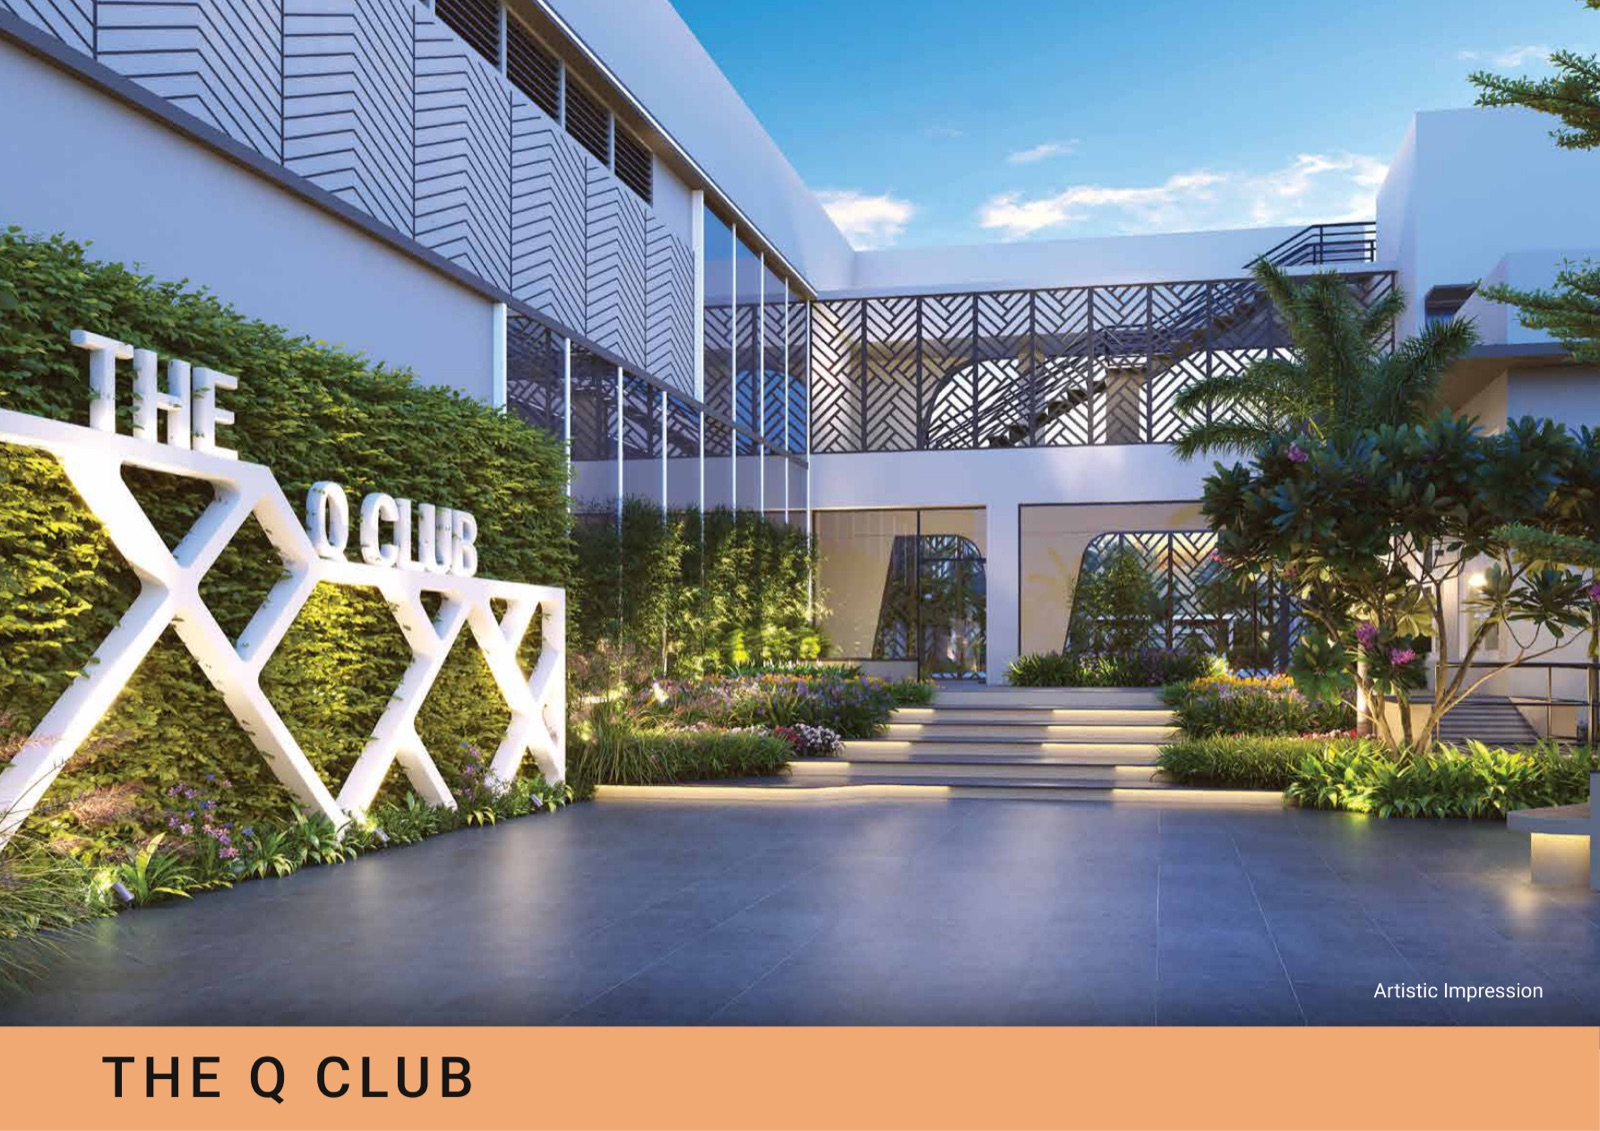
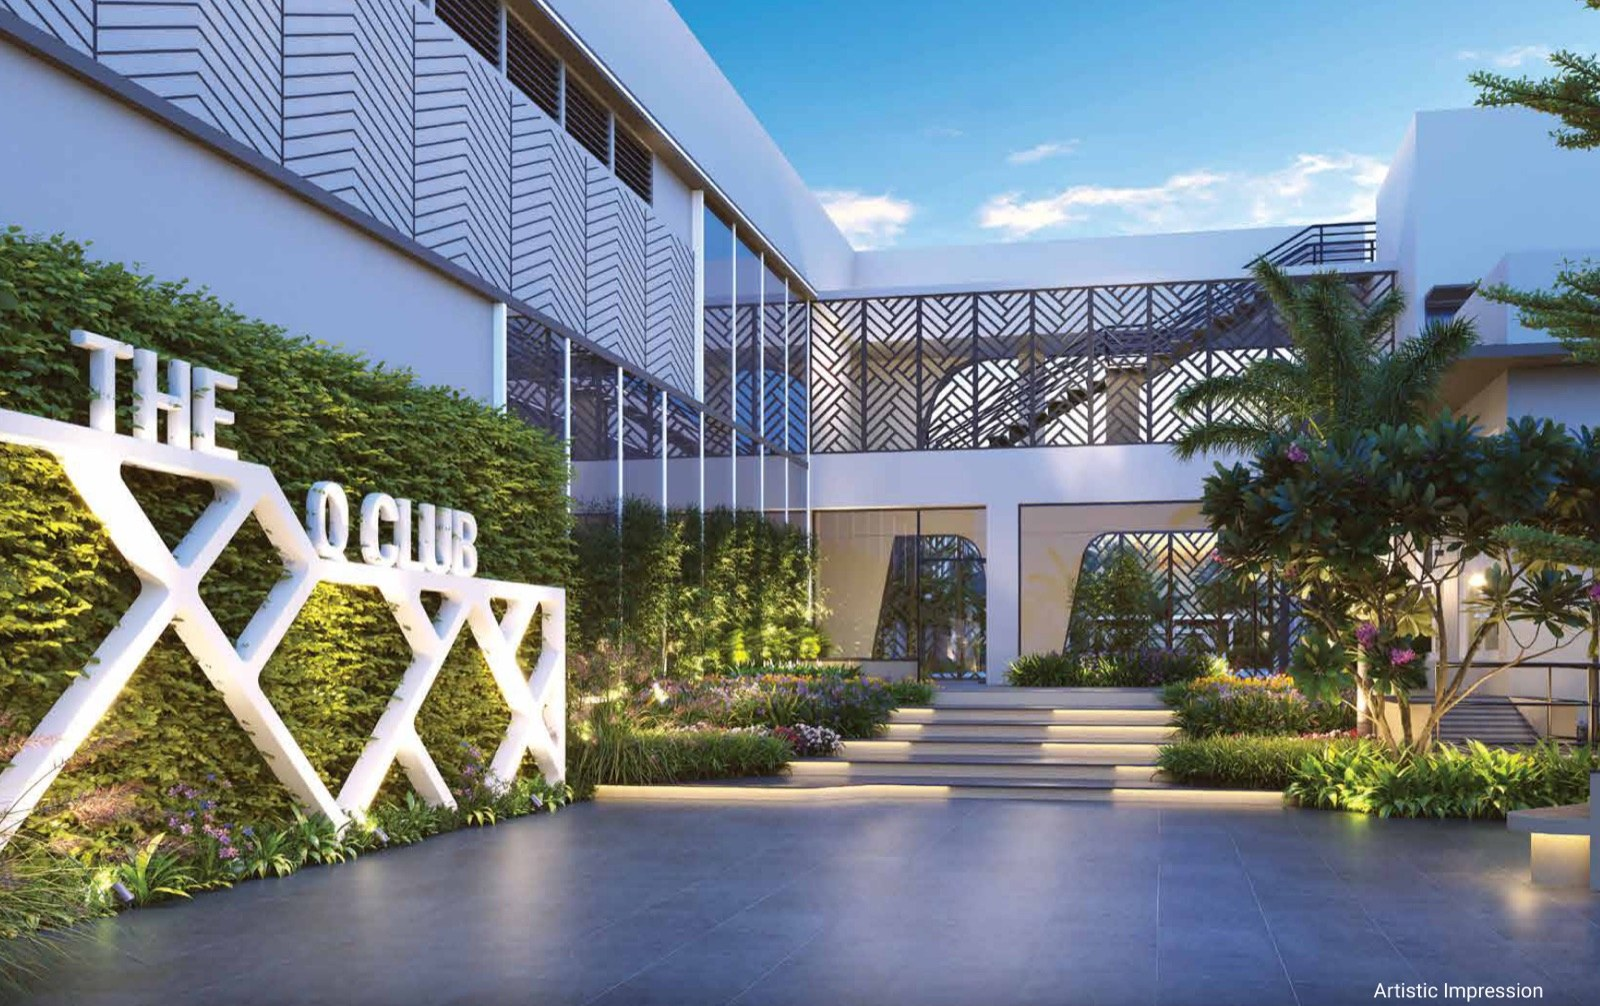
Crop caption bands from brochure images; carry project into contact form
The Qrious and Echoes renders had a developer-added caption
band baked into each image (a colored bottom bar or a white
text block below the photo). Cropped those off at the true
photo/caption boundary so the gallery's object-cover crop no
longer cuts label text mid-word — the same source image now
looks clean both in the grid and full-size in the lightbox.

Request Price / Schedule Site Visit on a project page now link to
/contact?project=<name>&intent=price|visit; ContactForm reads that
via useSearchParams and pre-fills a new Property field plus a
matching message, so an inquiry always carries which listing it
was about. Removed the placeholder "Map coming soon" block from
the contact page — no real map to show yet, and an empty box read
as broken rather than pending.

diff --git a/src/app/contact/page.tsx b/src/app/contact/page.tsx
@@ -1,7 +1,7 @@
 import type { Metadata } from "next";
+import { Suspense } from "react";
 import Breadcrumbs from "@/components/Breadcrumbs";
 import ContactForm from "@/components/ContactForm";
-import PlaceholderArt from "@/components/PlaceholderArt";
 
 export const metadata: Metadata = {
   title: "Contact Us",
@@ -22,29 +22,27 @@ export default function ContactPage() {
 
       <div className="mt-12 grid grid-cols-1 lg:grid-cols-3 gap-12">
         <div className="lg:col-span-2">
-          <ContactForm />
+          <Suspense fallback={null}>
+            <ContactForm />
+          </Suspense>
         </div>
 
-        <div className="space-y-8">
-          <div>
-            <h2 className="text-sm font-semibold uppercase tracking-wider text-champagne-gold mb-3">
-              Contact Information
-            </h2>
-            <p className="text-sm text-slate-grey">Pune, Maharashtra</p>
-            <p className="mt-2 text-sm text-slate-grey">
-              <a href="tel:+917775963750" className="hover:text-rich-gold">+91 77759 63750</a>
-            </p>
-            <p className="mt-2 text-sm text-slate-grey">
-              <a href="mailto:info@addresta.com" className="hover:text-rich-gold">info@addresta.com</a>
-            </p>
-            <p className="mt-2 text-sm text-slate-grey">
-              <a href="https://wa.me/917775963750" target="_blank" rel="noopener noreferrer" className="hover:text-rich-gold">
-                WhatsApp Us
-              </a>
-            </p>
-          </div>
-
-          <PlaceholderArt label="Map coming soon" className="aspect-square rounded-[6px] border border-border-card" />
+        <div>
+          <h2 className="text-sm font-semibold uppercase tracking-wider text-champagne-gold mb-3">
+            Contact Information
+          </h2>
+          <p className="text-sm text-slate-grey">Pune, Maharashtra</p>
+          <p className="mt-2 text-sm text-slate-grey">
+            <a href="tel:+917775963750" className="hover:text-rich-gold">+91 77759 63750</a>
+          </p>
+          <p className="mt-2 text-sm text-slate-grey">
+            <a href="mailto:info@addresta.com" className="hover:text-rich-gold">info@addresta.com</a>
+          </p>
+          <p className="mt-2 text-sm text-slate-grey">
+            <a href="https://wa.me/917775963750" target="_blank" rel="noopener noreferrer" className="hover:text-rich-gold">
+              WhatsApp Us
+            </a>
+          </p>
         </div>
       </div>
     </div>

diff --git a/src/components/ContactForm.tsx b/src/components/ContactForm.tsx
@@ -1,11 +1,22 @@
 "use client";
 
 import { useState } from "react";
+import { useSearchParams } from "next/navigation";
 
 const INTERESTS = ["Residential", "Commercial", "Investment", "Luxury", "Selling"];
 
 export default function ContactForm() {
+  const searchParams = useSearchParams();
+  const project = searchParams.get("project") ?? "";
+  const intent = searchParams.get("intent");
+
   const [submitted, setSubmitted] = useState(false);
+  const [message, setMessage] = useState(() => {
+    if (!project) return "";
+    if (intent === "visit") return `I'd like to schedule a site visit for ${project}.`;
+    if (intent === "price") return `I'd like pricing and availability details for ${project}.`;
+    return `I'm interested in ${project}.`;
+  });
 
   function handleSubmit(e: React.FormEvent) {
     e.preventDefault();
@@ -32,6 +43,8 @@ export default function ContactForm() {
       </div>
       <Field label="Email" name="email" type="email" required />
 
+      {project && <Field label="Property" name="property" defaultValue={project} />}
+
       <fieldset>
         <legend className="text-xs font-medium text-slate-grey mb-2">Interested In</legend>
         <div className="flex flex-wrap gap-2">
@@ -57,6 +70,8 @@ export default function ContactForm() {
         <textarea
           name="message"
           rows={4}
+          value={message}
+          onChange={(e) => setMessage(e.target.value)}
           className="rounded-[4px] border border-border bg-pure-white px-3 py-2.5 text-sm text-charcoal transition-colors duration-200 focus:outline-none focus:border-champagne-gold"
         />
       </label>
@@ -76,11 +91,13 @@ function Field({
   name,
   type = "text",
   required,
+  defaultValue,
 }: {
   label: string;
   name: string;
   type?: string;
   required?: boolean;
+  defaultValue?: string;
 }) {
   return (
     <label className="flex flex-col gap-1.5">
@@ -92,6 +109,7 @@ function Field({
         type={type}
         name={name}
         required={required}
+        defaultValue={defaultValue}
         className="rounded-[4px] border border-border bg-pure-white px-3 py-2.5 text-sm text-charcoal transition-colors duration-200 focus:outline-none focus:border-champagne-gold"
       />
     </label>

diff --git a/src/components/ProjectInquiryCard.tsx b/src/components/ProjectInquiryCard.tsx
@@ -2,6 +2,9 @@ import Link from "next/link";
 import { Property } from "@/types";
 
 export default function ProjectInquiryCard({ property }: { property: Property }) {
+  const contactHref = (intent: "price" | "visit") =>
+    `/contact?project=${encodeURIComponent(property.name)}&intent=${intent}`;
+
   return (
     <div className="sticky top-24 rounded-[8px] border border-border-card bg-pure-white p-6 shadow-xl shadow-charcoal/5">
       <p className="text-xs font-semibold uppercase tracking-wider text-rich-gold">{property.status}</p>
@@ -18,13 +21,13 @@ export default function ProjectInquiryCard({ property }: { property: Property })
 
       <div className="mt-5 flex flex-col gap-3">
         <Link
-          href="/contact"
+          href={contactHref("price")}
           className="inline-flex items-center justify-center rounded-[6px] bg-champagne-gold px-6 py-3.5 text-sm font-semibold text-charcoal transition-all duration-200 hover:bg-rich-gold hover:scale-[1.02] active:scale-[0.98]"
         >
           Request Price
         </Link>
         <Link
-          href="/contact"
+          href={contactHref("visit")}
           className="inline-flex items-center justify-center rounded-[6px] border border-charcoal px-6 py-3.5 text-sm font-semibold text-charcoal transition-all duration-200 hover:border-champagne-gold hover:text-rich-gold hover:scale-[1.02] active:scale-[0.98]"
         >
           Schedule Site Visit

diff --git a/src/app/projects/[slug]/page.tsx b/src/app/projects/[slug]/page.tsx
@@ -105,8 +105,8 @@ export default async function ProjectDetailPage({ params }: { params: Promise<{ 
       <CTASection
         heading="Interested in this property?"
         body="Talk to our property advisors for pricing, availability and site visit assistance."
-        primaryCta={{ label: "Request Details", href: "/contact" }}
-        secondaryCta={{ label: "Schedule Site Visit", href: "/contact" }}
+        primaryCta={{ label: "Request Details", href: `/contact?project=${encodeURIComponent(property.name)}&intent=price` }}
+        secondaryCta={{ label: "Schedule Site Visit", href: `/contact?project=${encodeURIComponent(property.name)}&intent=visit` }}
       />
     </div>
   );
